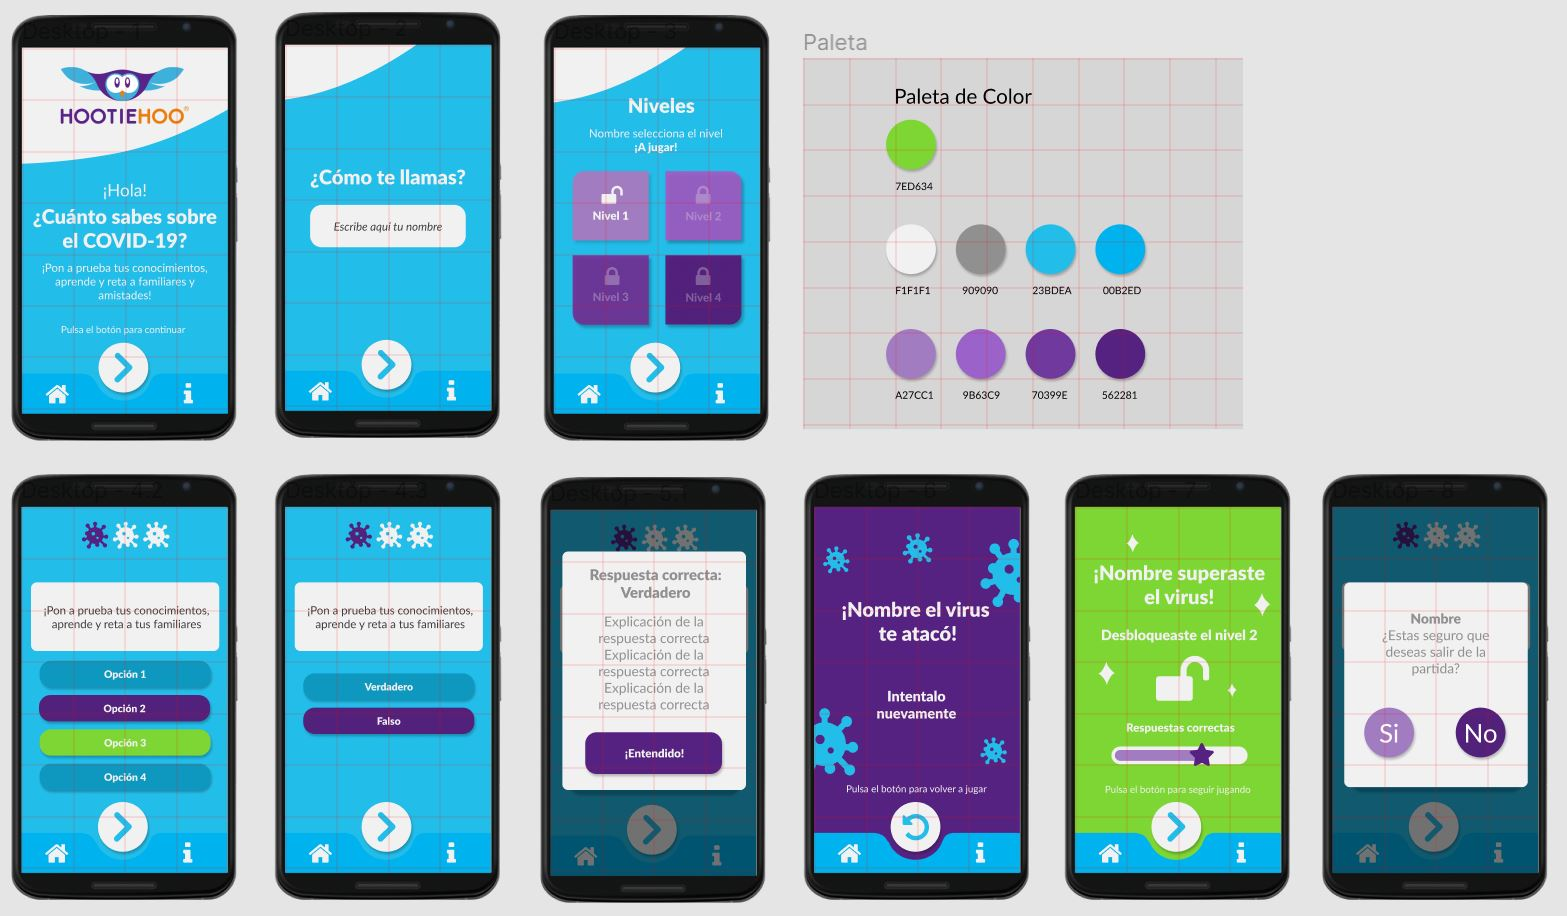
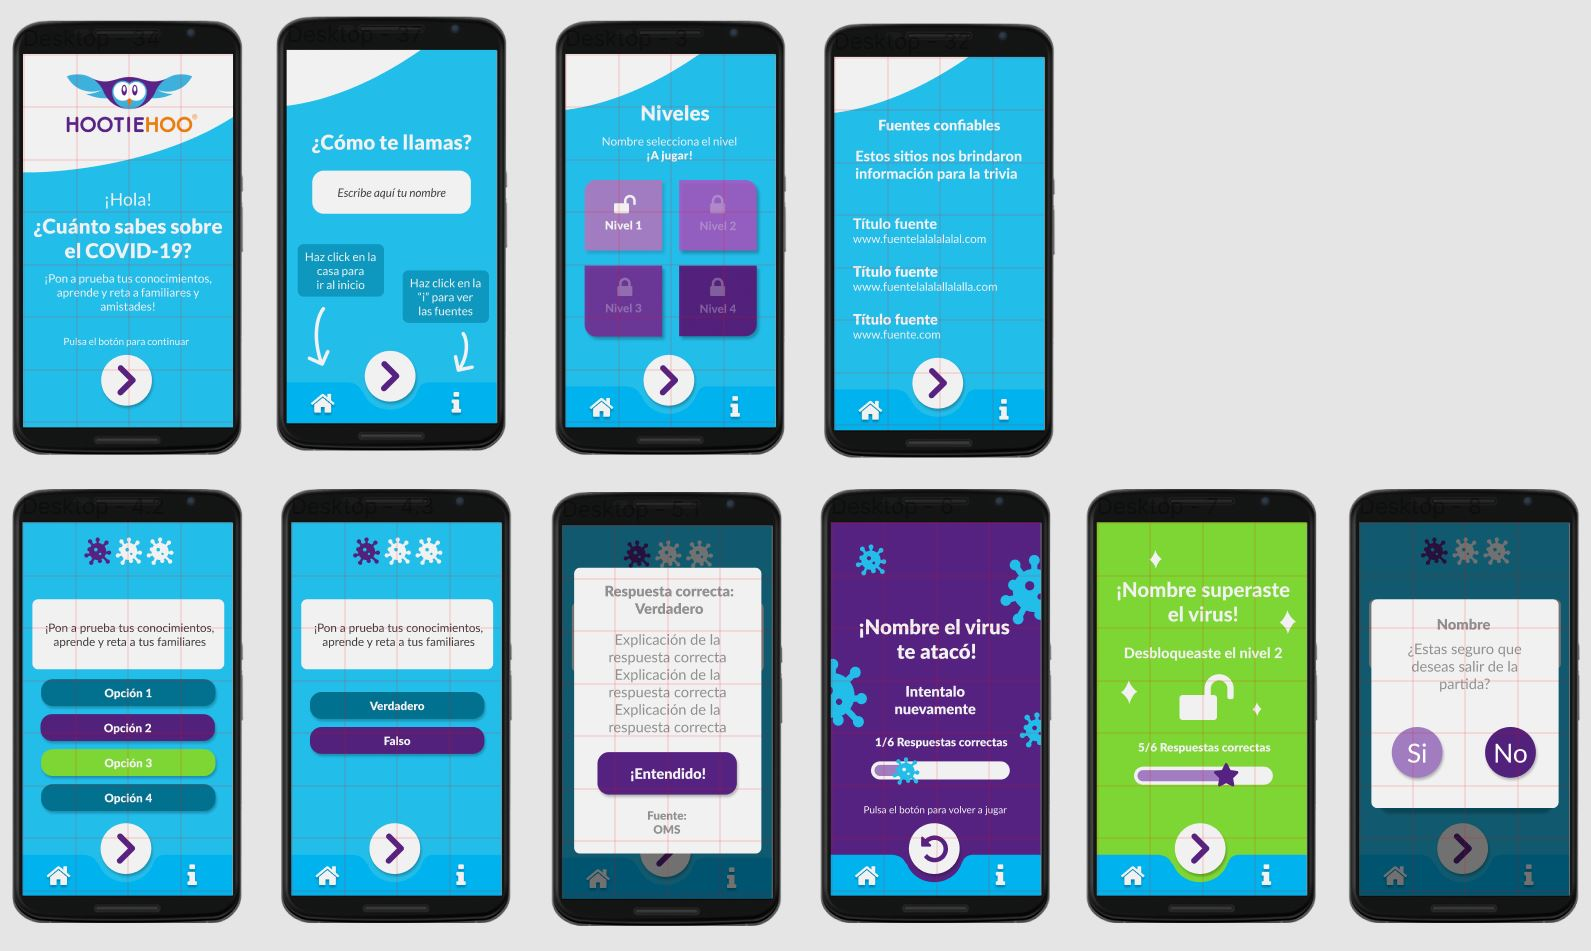
cambios en el data.json

diff --git a/README.md b/README.md
@@ -1,27 +1,13 @@
-# FactChecker
+# Open project
 
-This project was generated with [Angular CLI](https://github.com/angular/angular-cli) version 9.1.9.
+## Índice
 
-## Development server
+* [1. Definición de producto](#1-Definición-de-producto)
+* [2. Decisiones de diseño](#2-Decisiones-de-diseño)
+* [3. Historias de usuario](#3-Historias-de-usuario)
 
-Run `ng serve` for a dev server. Navigate to `http://localhost:4200/`. The app will automatically reload if you change any of the source files.
+***
 
-## Code scaffolding
+## 1. Definición de producto
 
-Run `ng generate component component-name` to generate a new component. You can also use `ng generate directive|pipe|service|class|guard|interface|enum|module`.
-
-## Build
-
-Run `ng build` to build the project. The build artifacts will be stored in the `dist/` directory. Use the `--prod` flag for a production build.
-
-## Running unit tests
-
-Run `ng test` to execute the unit tests via [Karma](https://karma-runner.github.io).
-
-## Running end-to-end tests
-
-Run `ng e2e` to execute the end-to-end tests via [Protractor](http://www.protractortest.org/).
-
-## Further help
-
-To get more help on the Angular CLI use `ng help` or go check out the [Angular CLI README](https://github.com/angular/angular-cli/blob/master/README.md).
+El producto es una trivia diseñada para informarse de manera didáctica y divertida sobre la pandemia global actual, llamada covid 19
